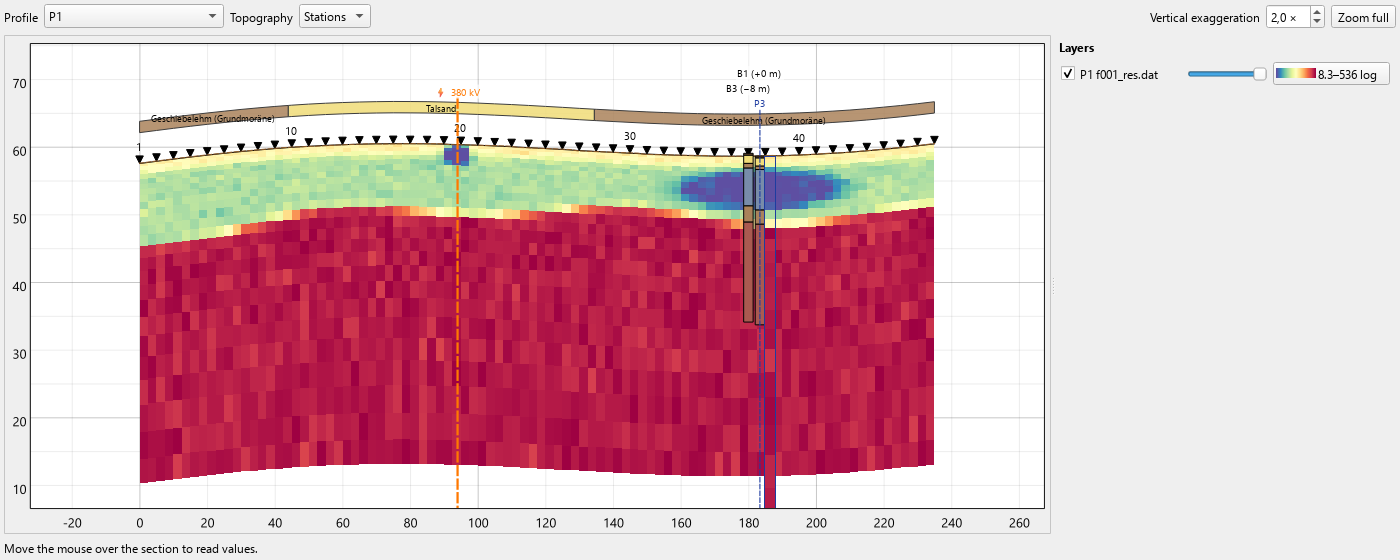
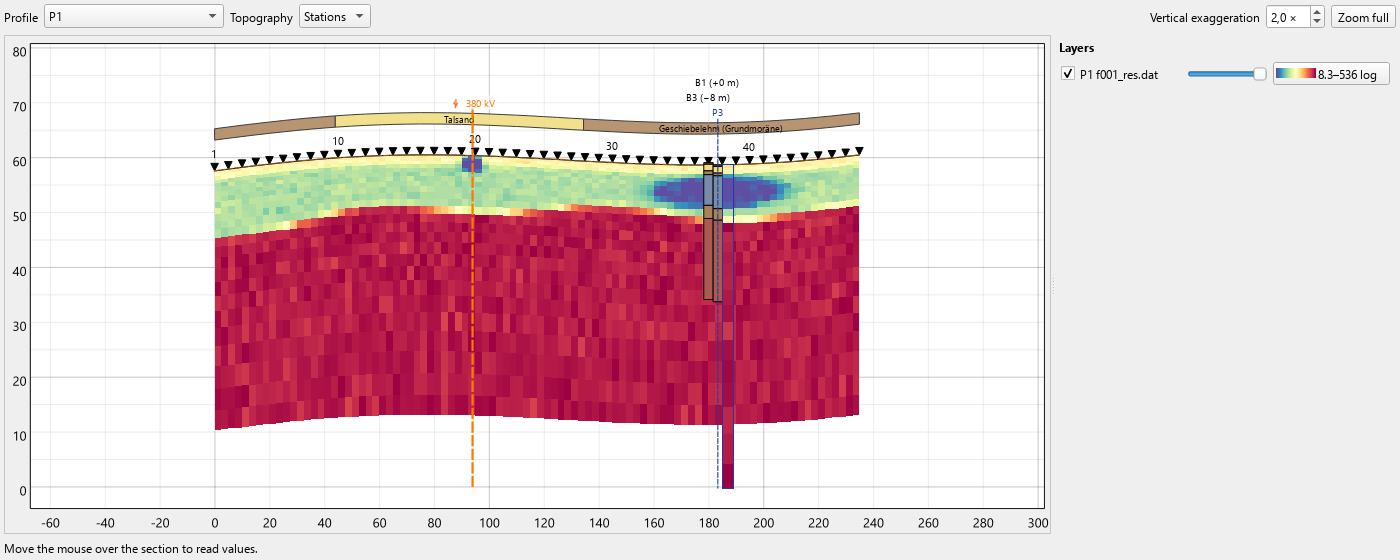
docs(release): 0.2.0 note and renders follow the final fixes
- P2 is rendered with Topography on DEM (from a temporary copy of the demo, so the
  committed demo GeoPackage is never written): the stations stay at their measured
  heights, red, on a thin line of their own.
- P1's "Zoom full" now shows the whole P3 strip.
- Note: step 2 buffer wording, the band's real unit name "Geschiebelehm (Grundmoräne)",
  step 6 DEM-mode text, the DEM check, "Show in section", the Zoom full tip and limits.

diff --git a/scripts/render_demo_section.py b/scripts/render_demo_section.py
@@ -8,12 +8,16 @@ interface, opens each profile in the section panel and saves the panel as a PNG:
 writes <out_dir>/<version>-P1.png, -P2.png and -ties.png (version defaults to
 metadata.txt, out_dir to docs/releases). P1 is the R2 elevation model, P2 the Zond depth
 model (checks depth conversion against the topography). P2 is zoomed to its upper part
-from the powerline crossing on, at a higher vertical exaggeration, so the 2 m road
-embankment on the DEM line near s = 250 is visible. The ties panel is shown with the
-P1 x P3 row selected.
+from the powerline crossing on, at a higher vertical exaggeration, with Topography on DEM:
+the surface follows the 2 m road embankment near s = 250, while the stations stay at
+their measured heights (red) on a thin line of their own. The ties panel is shown with
+the P1 x P3 row selected. The demo is copied to a temporary folder first, so switching
+the topography never writes to the committed demo/demo_workbench.gpkg.
 """
 import os
+import shutil
 import sys
+import tempfile
 import time
 from configparser import ConfigParser
 from pathlib import Path
@@ -28,8 +32,9 @@ from qgis.core import QgsApplication, QgsProject  # noqa: E402
 from qgis.PyQt.QtCore import QCoreApplication, QEvent, QEventLoop, QTimer  # noqa: E402
 from qgis.PyQt.QtGui import QFont  # noqa: E402
 
-#: profile name -> (vertical exaggeration, zoom); zoom (s0, s1, z_top) or None = whole section
-PROFILES = {"P1": (2.0, None), "P2": (4.0, (125.0, 360.0, 77.0))}
+#: profile name -> (vertical exaggeration, zoom, topography); zoom (s0, s1, z_top) or
+#: None = whole section
+PROFILES = {"P1": (2.0, None, "stations"), "P2": (4.0, (125.0, 360.0, 77.0), "dem")}
 SIZE = (1400, 560)
 TIES_SIZE = (900, 720)
 TIES_ROW = "P1 × P3"
@@ -109,12 +114,12 @@ def version() -> str:
     return cp["general"]["version"]
 
 
-def render(out_dir: Path, ver: str) -> list[Path]:
+def render(out_dir: Path, ver: str, demo: Path) -> list[Path]:
     from geophysics_workbench.plugin import WorkbenchPlugin
 
     project = QgsProject.instance()
-    if not project.read(str(REPO / "demo" / "demo_project.qgz")):
-        raise RuntimeError("could not read demo/demo_project.qgz")
+    if not project.read(str(demo / "demo_project.qgz")):
+        raise RuntimeError(f"could not read {demo / 'demo_project.qgz'}")
     iface = FakeIface()
     plugin = WorkbenchPlugin(iface)
     plugin.initGui()                                 # attaches the demo's workbench store
@@ -129,8 +134,9 @@ def render(out_dir: Path, ver: str) -> list[Path]:
         app = QgsApplication.instance()
         app.processEvents()
         by_name = {p.name: p.id for p in plugin.store.profiles()}
-        for name, (ve, zoom) in PROFILES.items():
+        for name, (ve, zoom, topography) in PROFILES.items():
             dock.ve_spin.setValue(ve)
+            plugin.provider.set_topography_source(by_name[name], topography)
             dock.open_profile(by_name[name])
             wait_idle(app, dock)
             if zoom is not None:
@@ -183,7 +189,10 @@ def main() -> int:
     app.initQgis()
     app.setFont(QFont(UI_FONT, 9))   # offscreen Qt otherwise picks an odd fallback font
     try:
-        render(out_dir, ver)
+        with tempfile.TemporaryDirectory(ignore_cleanup_errors=True) as tmp:
+            demo = Path(tmp) / "demo"
+            shutil.copytree(REPO / "demo", demo)
+            render(out_dir, ver, demo)
         return 0
     except Exception as exc:
         print(f"error: {exc}", file=sys.stderr)

diff --git a/docs/releases/0.2.0.md b/docs/releases/0.2.0.md
@@ -7,7 +7,7 @@ the site without leaving the section.
 
 ![P1: the 380 kV powerline crossing with a small conductive anomaly under it, boreholes B3 and B1 at the P3 tie, the P3 strip beside B1, and the geology band above](0.2.0-P1.png)
 
-![P2, zoomed in at 4× vertical exaggeration: the dashed DEM line rises 2 m over a road embankment near 250 m, and the two stations there are red](0.2.0-P2.png)
+![P2 with Topography on DEM, zoomed in at 4× vertical exaggeration: the surface and the model follow the DEM 2 m up over a road embankment near 250 m, while the two stations there stay at their measured heights, red, on a thin line through all measured station heights](0.2.0-P2.png)
 
 ![The Profile ties panel with P1 × P3 selected: both models at the crossing agree within a factor of 1.1](0.2.0-ties.png)
 
@@ -21,10 +21,11 @@ the site without leaving the section.
   line (for example "B3 (−8 m)"). Points such as pylons are drawn as a black diamond.
 - **Surface geology band.** A coloured band above the section shows the geological unit
   at the surface along the profile, with the unit names.
-- **DEM check.** A brown dashed line shows the DEM along the profile. Stations whose
-  height differs from the DEM by more than the tolerance (1 m) are drawn red. In the
-  section panel, **Topography** lets you hang depth models from the DEM instead of the
-  station heights.
+- **DEM check.** A brown dashed line shows the DEM along the profile. The station
+  triangles always sit at their measured heights; those that differ from the DEM by
+  more than the tolerance (1 m) are drawn red. In the section panel, **Topography** lets
+  you hang depth models from the DEM instead of the station heights; the stations then
+  keep their measured heights, joined by a thin dark line, so you see both surfaces.
 - **Profile ties.** Where two profiles cross, the section shows the other profile's
   model as a thin framed strip beside the tie line, in this section's own colour scale,
   so equal values look equal. **Geophysics Workbench → Profile ties…** lists every
@@ -47,9 +48,10 @@ the site without leaving the section.
 The menu is called **Geophysics Workbench** in both languages, and the plugin's own menu
 items and buttons are in English in German QGIS too.
 
-**Tip:** the labels above the section need room. If the band or the labels are cut off
-at the top of the section panel, make the panel taller by dragging its top edge, or
-scroll the mouse wheel over the section to zoom out a little.
+**Tip:** **Zoom full** keeps room at the top of the section for the geology band and the
+labels, however low the section panel is. If you have zoomed in and they are cut off,
+click **Zoom full**. In a low panel that room takes a good part of the height; drag the
+panel's top edge to make it taller and give the model more room.
 
 ## What to try
 
@@ -57,7 +59,9 @@ scroll the mouse wheel over the section to zoom out a little.
    and choose `demo_project.qgz` in the new folder. You now also see boreholes, a pylon,
    the surface geology and a DEM (hidden in the layer list). Then **Geophysics Workbench
    → Pick profile on map** and click the P1 line. The section shows the orange "380 kV"
-   powerline crossing at 94 m, the geology band (Geschiebelehm, Talsand, Geschiebelehm),
+   powerline crossing at 94 m, the geology band (Geschiebelehm (Grundmoräne), Talsand,
+   Geschiebelehm (Grundmoräne); the first part is too short for its name, so hover over
+   it to read it),
    boreholes B3 and B1 near 180 m, and the P3 tie at 183 m.
 2. **Find the powerline and the anomaly under the powerline crossing.** Directly under
    the orange line at 94 m there is a small, very conductive block (about 5 Ω·m) in the
@@ -66,8 +70,8 @@ scroll the mouse wheel over the section to zoom out a little.
    band says Talsand there, which is not usually that conductive. (In the demo it is
    planted on purpose, as an effect of the line's earthing.) Only one pylon of this
    line lies in the demo area, about 72 m from the profiles, so no pylon appears on a
-   section at the default buffer of 25 m. Set the buffer to 75 m in step 5 to see it
-   as "Mast 1".
+   section at the default buffer of 25 m. To see it as "Mast 1", raise the buffer to
+   75 m in **Context layers…** (as in step 5).
 3. **Hover over borehole B1 and read its log.** Move the mouse down the B1 column (at
    183 m, labelled "B1 (+0 m)"). The line under the section shows the layer at that
    depth, for example "Borehole B1 (+0 m): 2.0–8.0 m Ton". The clay (Ton, blue-grey) in
@@ -79,7 +83,8 @@ scroll the mouse wheel over the section to zoom out a little.
    opens a panel on the right. Click the row **P1 × P3**: the mismatch is "×1.1", and the
    plot shows both models against elevation, nearly on top of each other. 2D profiles in
    different directions never match exactly, so read the figure as an indication.
-   **Show in section** opens P1 with a red dashed line at the tie.
+   **Show in section** opens P1 with a red dashed line at the tie (and brings the section
+   panel back if you had closed it).
 5. **In Context layers…, raise the buffer to 35 m and watch B4 appear on P3.**
    **Geophysics Workbench → Context layers…**, set **Buffer (m)** to 35 and click **OK**.
    Open P3 in the section panel: borehole B4 now appears at 265 m, labelled
@@ -92,10 +97,12 @@ scroll the mouse wheel over the section to zoom out a little.
    wheel over 250 m to zoom in, or raise **Vertical exaggeration** to 4 or 5. Hover
    there: the line under the section shows, for example, "DEM 61.4 m (stations −1.9 m)".
    Now switch **Topography** to **DEM**: the black surface and the whole model are lifted
-   by 2 m over the embankment, and the red marks go away. Which is right depends on
-   where the electrodes really stood: the station heights are what was measured, the DEM
-   shows the road. The choice is saved with the profile, so switch back to **Stations**
-   when you are done.
+   by 2 m over the embankment. The two red triangles stay where they were, at the
+   measured station heights, and a thin dark line now joins all measured heights, so you
+   see both surfaces at once (the picture at the top shows this view). Which is right
+   depends on where the electrodes really stood: the station heights are what was
+   measured, the DEM shows the road. The choice is saved with the profile, so switch
+   back to **Stations** when you are done.
 7. **Add one of your own layers, such as a road or river layer, as a crossing line.**
    Add a line layer that crosses one of the profiles to the project (it may be in any
    coordinate system). If you have none at hand, draw one: **Layer → Create Layer → New
@@ -117,8 +124,8 @@ scroll the mouse wheel over the section to zoom out a little.
 
 - Ties compare models only; measured apparent resistivity follows in M4.
 - The column importer and control points follow in 0.2.5.
-- The labels above the section take a fixed amount of room, so in a low section panel
-  they can be cut off at the top (see the tip above).
+- In a very low section panel (about the smallest it goes) the room at the top is
+  limited, so the highest row of labels can still be cut off (see the tip above).
 - Where boreholes stand right on a tie line, the P3 strip moves beside the borehole
   column, so it can sit a little away from the tie line.
 - The colour of a tie strip follows the top visible model of this section. A section
